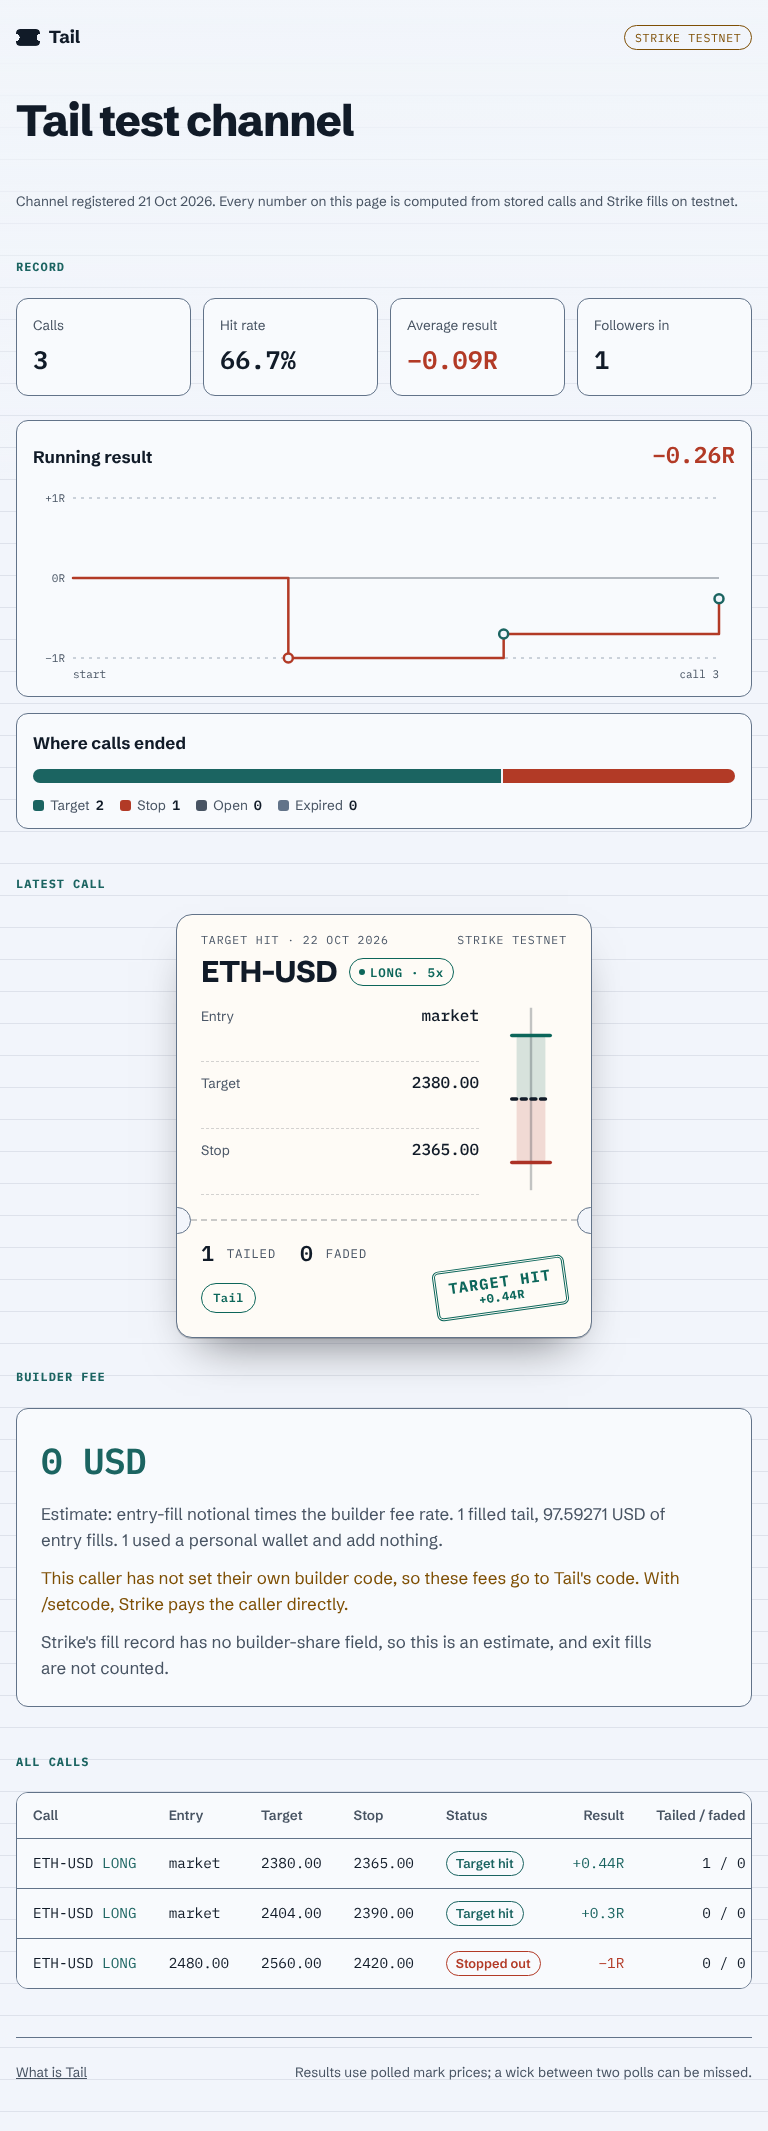
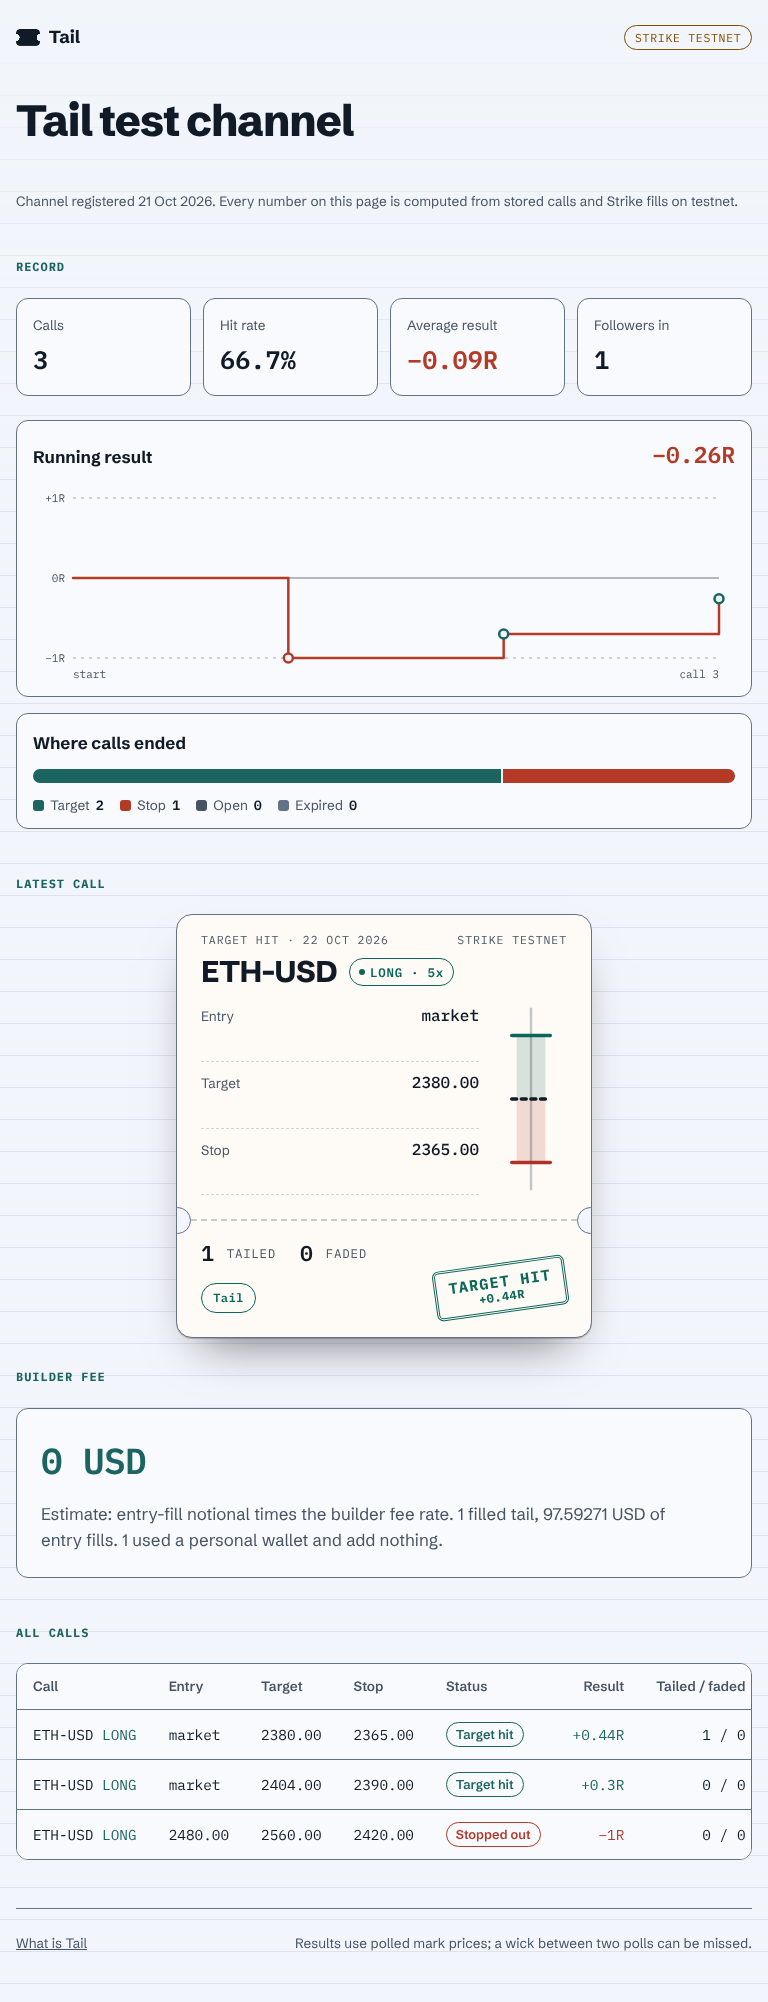
Channel page: remove the yellow notices (his call)
Drops the 'fees go to Tail's code' and 'no builder-share field' notes. The
estimate line stays, and a caller's own code is still named when set. Page
check now asserts the notices are gone.

Claude-Session: https://claude.ai/code/session_01BzRCuCvvaxwKdpQUCQScRc

diff --git a/web/src/pages/ChannelPage.tsx b/web/src/pages/ChannelPage.tsx
@@ -84,12 +84,9 @@ export function ChannelPage({ slug }: { slug: string }) {
                 : `${e.filled} filled ${e.filled === 1 ? "tail" : "tails"}, ${usdLabel(e.filledNotional)} of entry fills.`}
               {e.withoutRate > 0 && ` ${e.withoutRate} used a personal wallet and add nothing.`}
             </p>
-            {page.payout.to === "caller" ? (
-              <p className={styles.note}>Paid by Strike straight to the account that owns the builder code <code>{page.payout.code}</code> ({page.payout.feeBps} bps). Tail never holds it.</p>
-            ) : (
-              <p className={`${styles.note} ${styles.warn}`}>This caller has not set their own builder code, so these fees go to Tail's code. With /setcode, Strike pays the caller directly.</p>
+            {page.payout.to === "caller" && (
+              <p className={styles.note}>Paid by Strike straight to the account that owns the builder code <code>{page.payout.code}</code> ({page.payout.feeBps} bps).</p>
             )}
-            <p className={styles.note}>Strike's fill record has no builder-share field, so this is an estimate, and exit fills are not counted.</p>
           </div>
         </div>
       </section>

diff --git a/scripts/pages-e2e.ts b/scripts/pages-e2e.ts
@@ -133,7 +133,8 @@ if (realSlug) {
   check("real page shows the call count from the API", t.includes(`${api.page.record.calls}`));
   check("real page says 'No tail has filled yet' when the fee is zero", api.page.earnings.filled === 0 ? t.includes("No tail has filled yet") : true, { filled: api.page.earnings.filled });
   const payout = (api.page as unknown as { payout: { to: string } }).payout;
-  check("real page says who Strike pays the fee to, matching the API", payout.to === "caller" ? t.includes("Paid by Strike straight to the account") : t.includes("these fees go to Tail's code"), payout);
+  check("real page names the caller's code only when one is set, matching the API", payout.to === "caller" ? t.includes("Paid by Strike straight to the account") : !t.includes("Paid by Strike straight"), payout);
+  check("real page carries no yellow notice text (his call)", !/builder-share field|not live|go to Tail's code/.test(t));
   check("real page shows the heading with focus", (await page.evaluate("document.activeElement && document.activeElement.tagName")) === "H1");
   await ctx.close();
 }

diff --git a/web/src/pages/pages.module.css b/web/src/pages/pages.module.css
@@ -253,9 +253,6 @@
   max-width: 62ch;
 }
 
-.warn {
-  color: var(--warn);
-}
 
 /* A Telegram-ish message bubble, built from the featured call's own fields. */
 .bubble {
